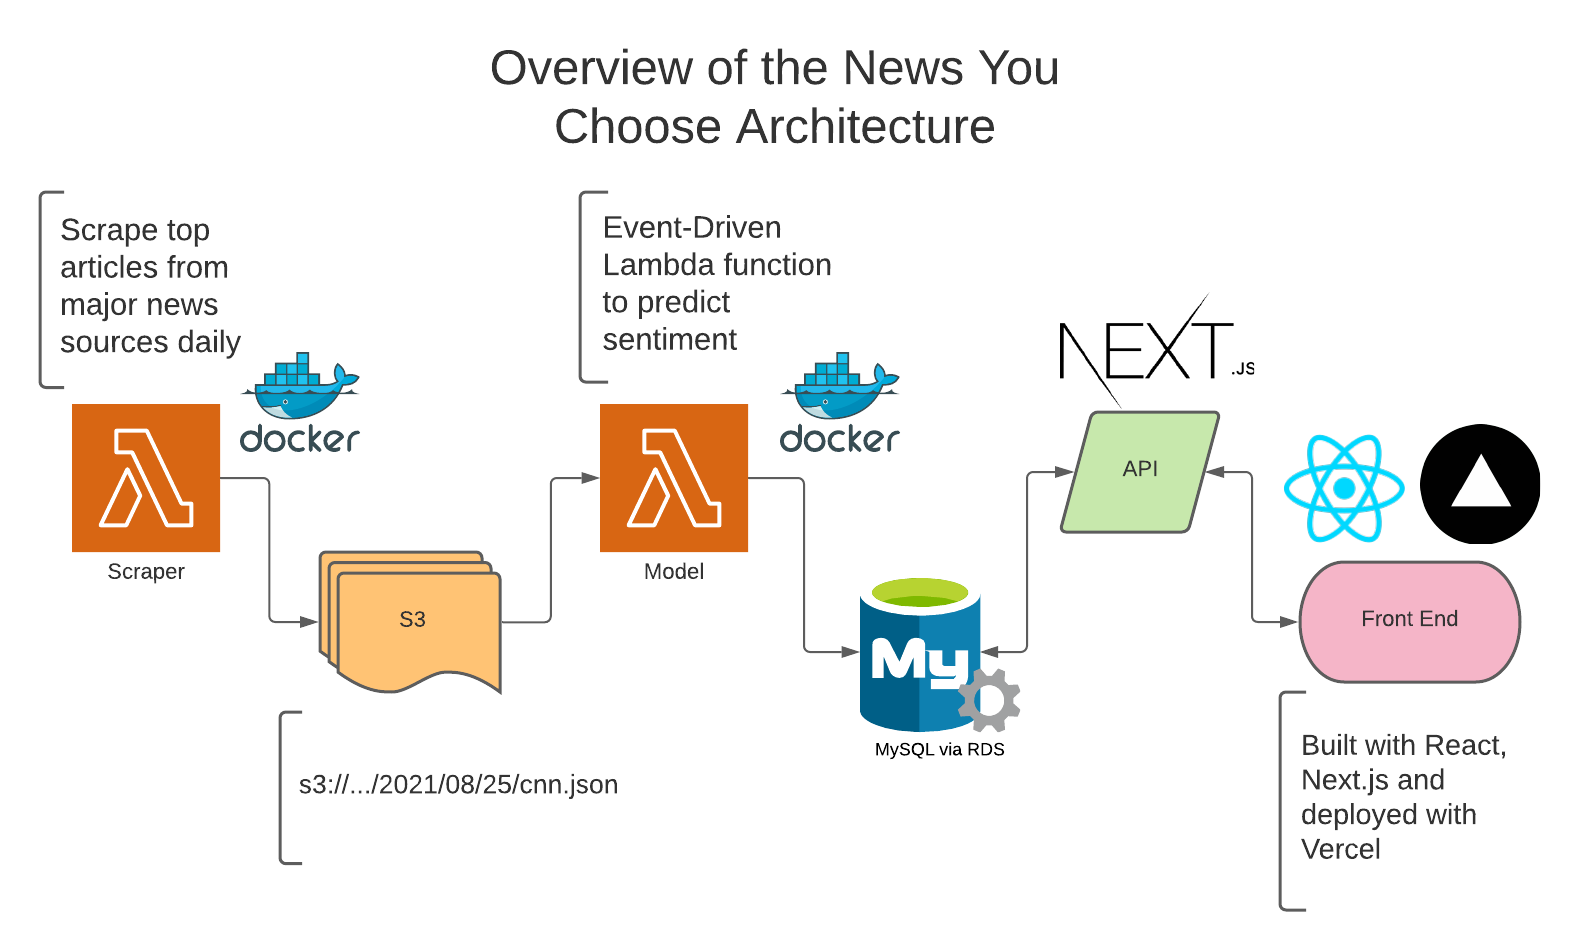
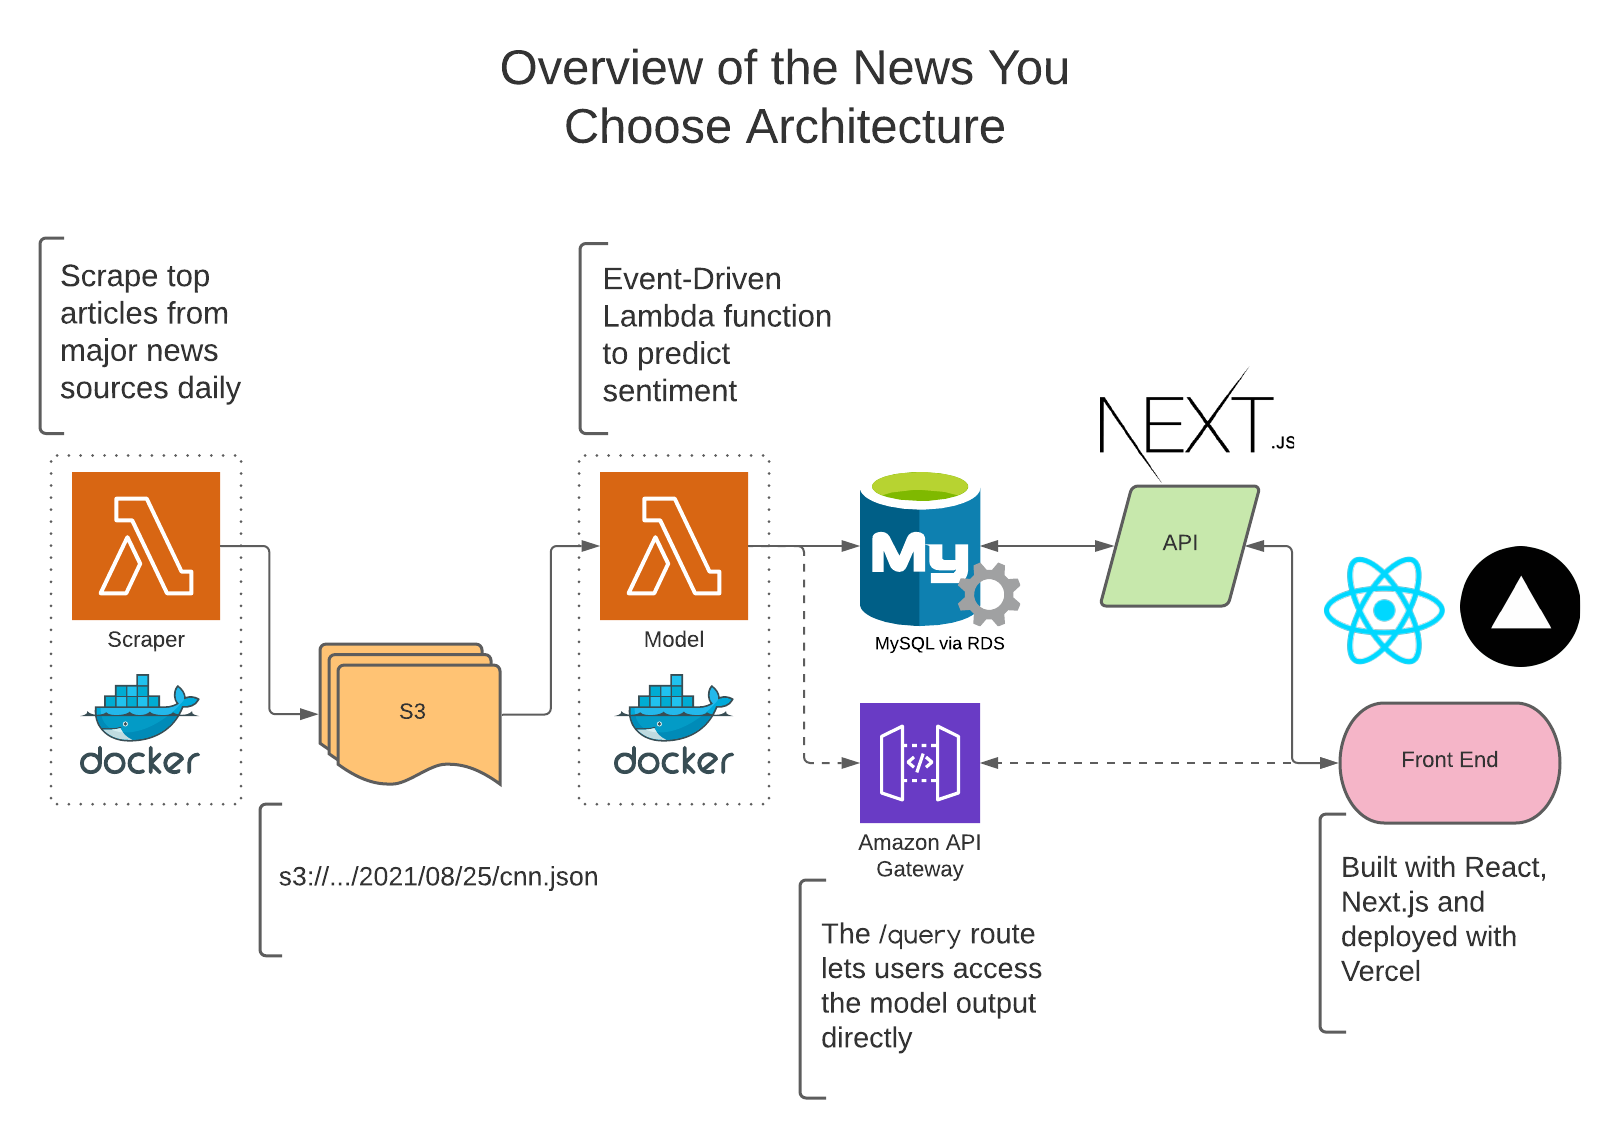
update overview image to include api gateway, add model detailed view

diff --git a/README.md b/README.md
@@ -10,6 +10,8 @@ The goal of New A.I. Choose is to train machine learning models to accurately pr
 
 ![Overview of News You Choose Database](images/Database_ERD.png)
 
+![Overview of News You Choose Model](images/Detailed_View_Model_Structure.jpg)
+
 # ECR, Lambda and Deployments
 
 We are using ECR along with a lambda function to run some web scraping tasks for this project. Read a quick [tutorial on this here](https://aws.amazon.com/blogs/aws/new-for-aws-lambda-container-image-support/).
